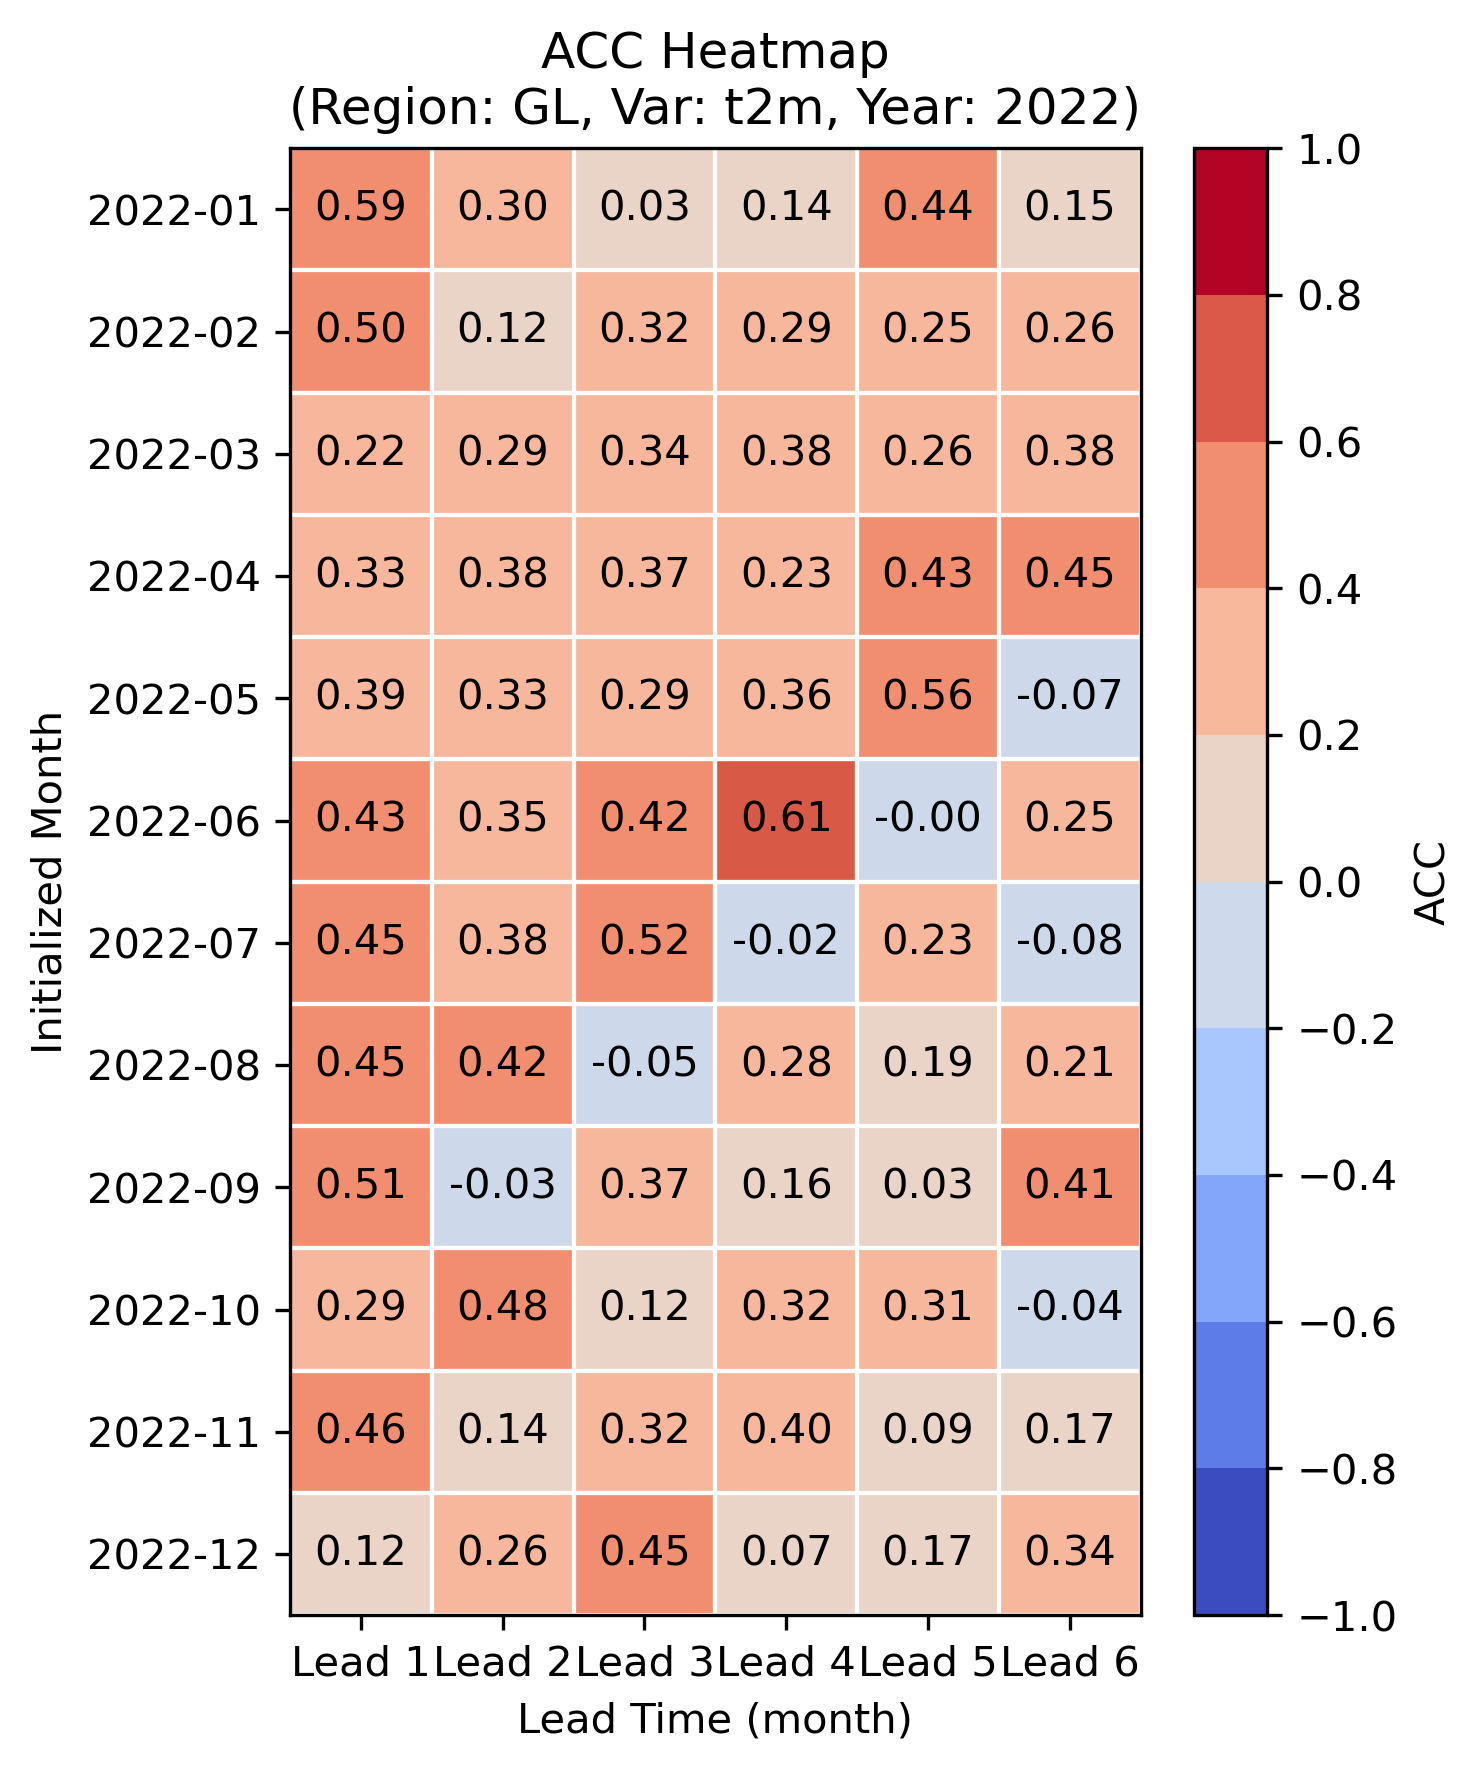
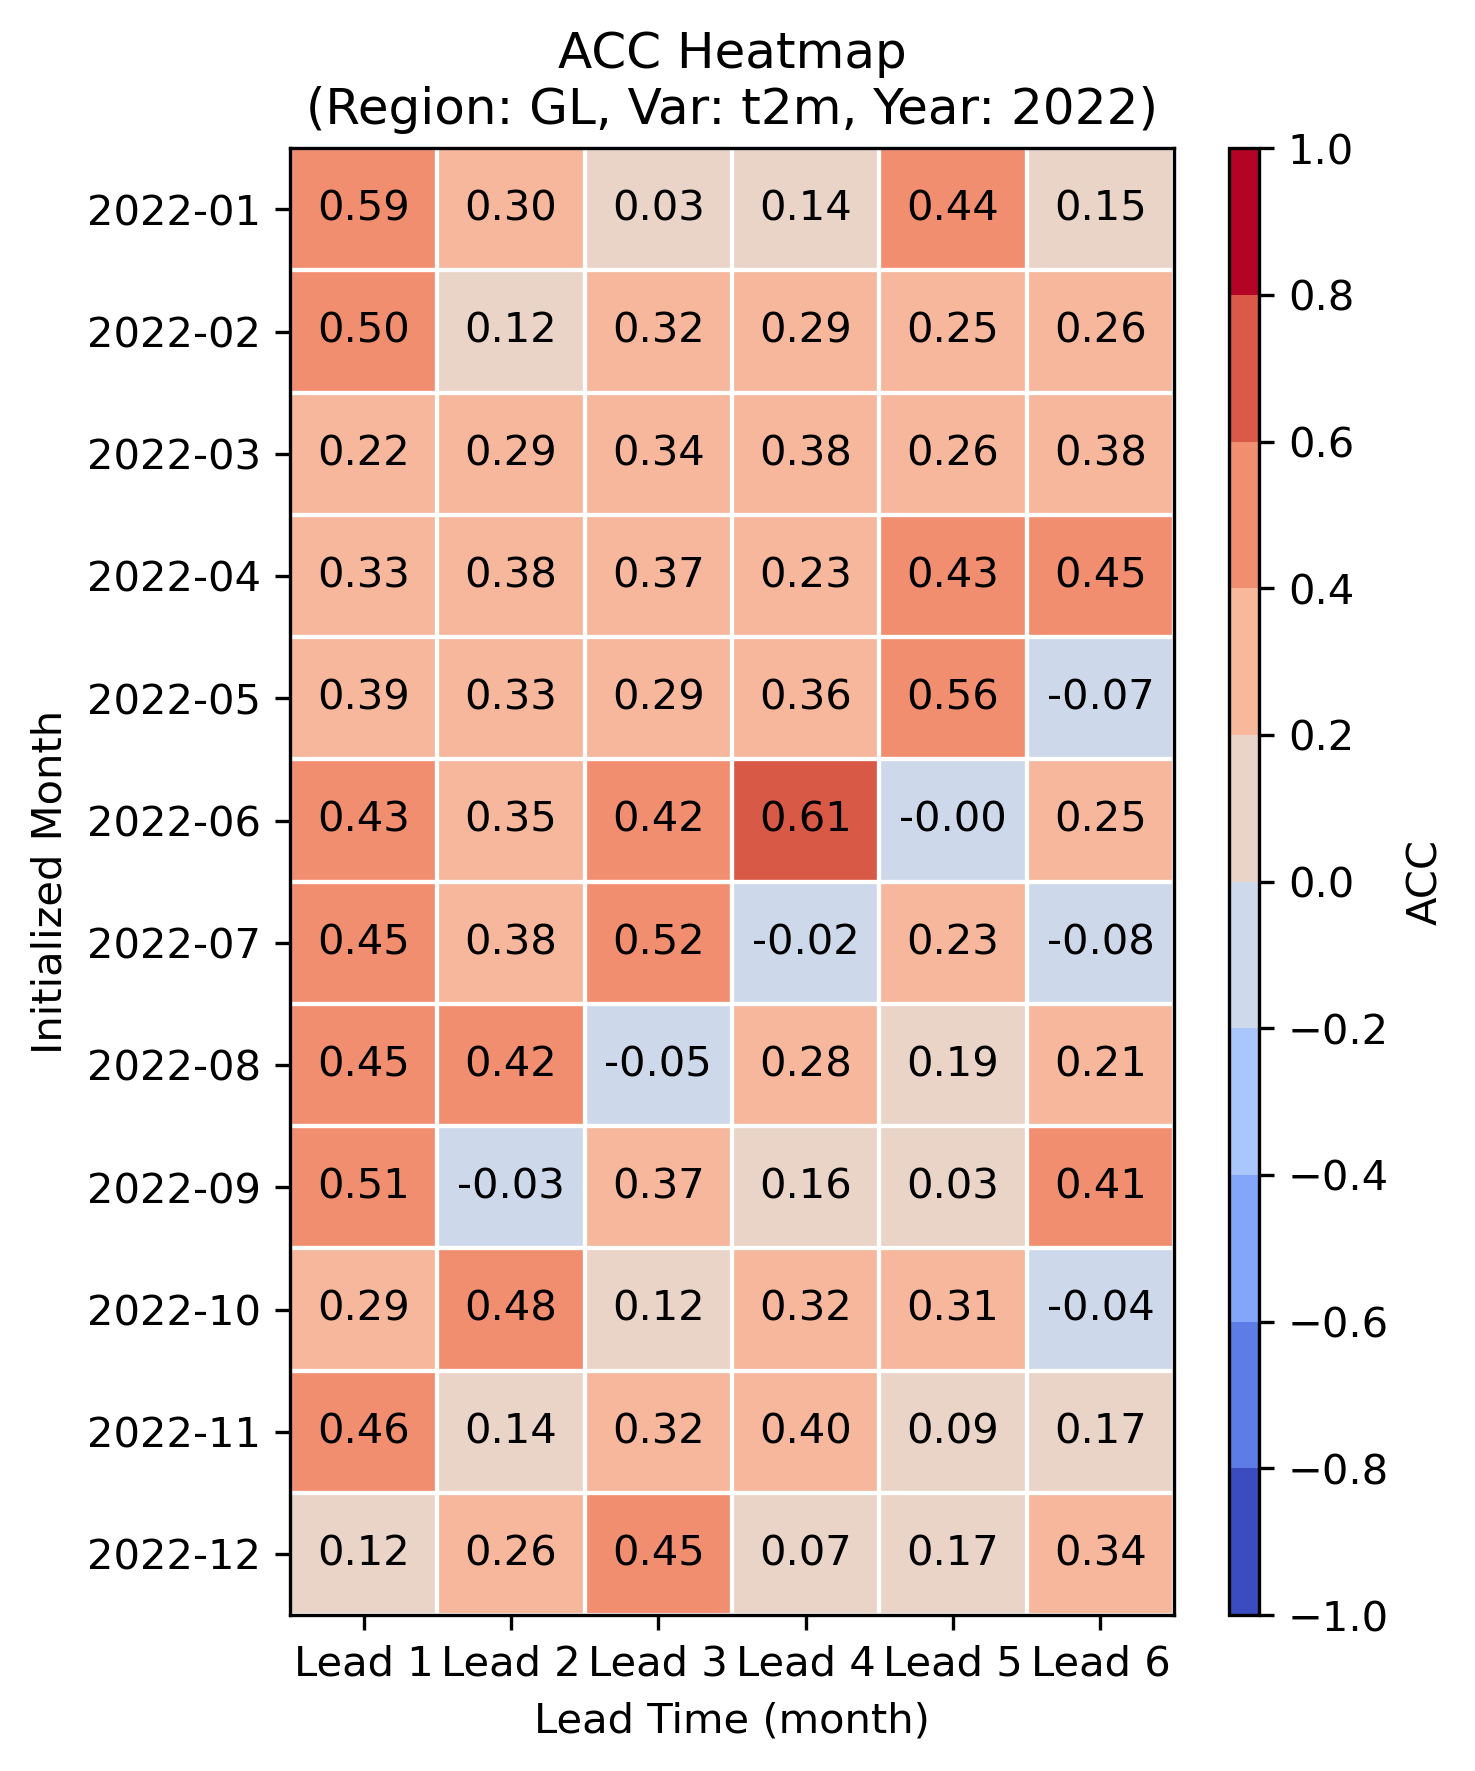
modified Det Heatmap

diff --git a/fcstverif/src/plotting/plotDetermSkillScore.py b/fcstverif/src/plotting/plotDetermSkillScore.py
@@ -68,16 +68,29 @@ def plot_skill_initialized_month(var, region_name, data_dir, fig_dir, score):
         logger.info(f"[INFO] Saved: {save_fname}")
         ds.close()
 
+def plot_skill_heatmap_initialized_month(var, target_year, region_name, data_dir, fig_dir, score1='acc', score2='rmse'):
+    import matplotlib.patches as patches
+    import matplotlib.colors as mcolors
 
-def plot_skill_heatmap_initialized_month(var, target_year, region_name, data_dir, fig_dir, score):
-    # 데이터 준비
+    # 설정
     months = range(1, 13)
     leads = range(1, 7)
-    
-    heatmap_data = np.full((len(months), len(leads)), np.nan)
-
     y_labels = [f"{target_year}-{m:02d}" for m in months]
+    x_labels = list(leads)
 
+    # 색상 및 colormap 설정
+    cmap1 = plt.get_cmap('bwr', 10)    # 💡 ACC
+    cmap2 = plt.get_cmap('Greys', 10)  # 💡 RMSE
+    bounds1 = np.linspace(-1, 1, 11)     # ACC
+    bounds2 = np.linspace(0, 4, 11)    # RMSE (적절히 조정 필요)
+    norm1 = mcolors.BoundaryNorm(bounds1, cmap1.N)
+    norm2 = mcolors.BoundaryNorm(bounds2, cmap2.N)
+
+    # 빈 grid
+    grid1 = np.full((len(y_labels), len(x_labels)), np.nan)
+    grid2 = np.full((len(y_labels), len(x_labels)), np.nan)
+
+    # 데이터 로드
     for i, month in enumerate(months):
         yyyymm = f"{target_year}{month:02d}"
         file_path = os.path.join(data_dir, f"ensScore_det_{var}_{yyyymm}.nc")
@@ -90,56 +103,148 @@ def plot_skill_heatmap_initialized_month(var, target_year, region_name, data_dir
 
         for j, lead in enumerate(leads):
             try:
-                time_idx = ds['lead'].values.tolist().index(lead)
-                heatmap_data[i, j] = ds[f"{score}_mean"].isel(time=time_idx).item()
+                time_idx = list(ds['lead'].values).index(lead)
+                grid1[i, j] = ds[f"{score1}_mean"].isel(time=time_idx).item()
+                grid2[i, j] = ds[f"{score2}_mean"].isel(time=time_idx).item()
             except Exception:
                 logger.info(f"[WARN] {yyyymm} Lead={lead} 없음")
                 continue
 
-    # colormap 설정(discrete levels)
-    bounds = np.arange(-1,1.01, 0.2)
-    cmap = plt.get_cmap('coolwarm', len(bounds)-1)
-    norm = mcolors.BoundaryNorm(bounds, cmap.N)
+    # 그림 생성
+    fig, ax = plt.subplots(figsize=(5, len(y_labels) * 0.5))
 
-    # 히트맵 그리기
-    plt.figure(figsize=(5, len(y_labels)*0.5))
-    im = plt.imshow(heatmap_data, cmap=cmap, norm=norm, aspect='auto')
+    for i in range(len(y_labels)):
+        for j in range(len(x_labels)):
+            x = j
+            y = i
+            val1 = grid1[i, j]
+            val2 = grid2[i, j]
 
-    # grid 설정 (white borders)
-    ax = plt.gca()
-    for i in range(len(months)):
-        for j in range(len(leads)):
-            rect = patches.Rectangle((j-0.5, i-0.5), 1, 1, linewidth=1,
-                                     edgecolor='white', facecolor='none')
-            ax.add_patch(rect)
+            if not np.isnan(val1):
+                ax.add_patch(patches.Polygon(
+                    [[x, y], [x+1, y], [x, y+1]],
+                    facecolor=cmap1(norm1(val1)), edgecolor='white', lw=2
+                ))
+            if not np.isnan(val2):
+                ax.add_patch(patches.Polygon(
+                    [[x+1, y+1], [x+1, y], [x, y+1]],
+                    facecolor=cmap2(norm2(val2)), edgecolor='white', lw=2
+                ))
 
-    # annotation
-    for i in range(len(months)):
-        for j in range(len(leads)):
-            val = heatmap_data[i, j]
-            if not np.isnan(val):
-                ax.text(j, i, f"{val:.2f}", ha='center', va='center', color='black')
+            if not np.isnan(val1) and not np.isnan(val2):
+                color1 = 'white' if val1 >= 0.6 else 'black'
+                color2 = 'white' if val2 >= 2 else 'black'
+                ax.text(x + 0.3, y + 0.25, f'{val1:.2f}', ha='center', va='center', fontsize=7, color=color1)
+                ax.text(x + 0.7, y + 0.75, f'{val2:.2f}', ha='center', va='center', fontsize=7, color=color2)
 
     # 축 설정
-    ax.set_xticks(np.arange(len(leads)))
-    ax.set_xticklabels([f"Lead {l}" for l in leads])
-    ax.set_yticks(np.arange(len(months)))
+    ax.set_xticks(np.arange(len(x_labels)) + 0.5)
+    ax.set_xticklabels([f'Lead {l}' for l in x_labels])
+    ax.set_yticks(np.arange(len(y_labels)) + 0.5)
     ax.set_yticklabels(y_labels)
+    ax.set_xlim(0, len(x_labels))
+    ax.set_ylim(0, len(y_labels))
+    ax.invert_yaxis()
+    ax.set_xlabel("Lead Time")
+    ax.set_ylabel("Initialized Month")
+    ax.set_title(f"{score1.upper()} / {score2.upper()} Heatmap\n(Region: {region_name}, Var: {var}, Year: {target_year})")
 
-    ax.set_xlabel('Lead Time (month)')
-    ax.set_ylabel('Initialized Month')
-    ax.set_title(f'{score.upper()} Heatmap\n(Region: {region_name}, Var: {var}, Year: {target_year})')
+    # colorbar
+    fig.subplots_adjust(right=0.88)
+    cax1 = fig.add_axes([0.90, 0.55, 0.015, 0.3])
+    sm1 = plt.cm.ScalarMappable(cmap=cmap1, norm=norm1)
+    sm1.set_array([])
+    cbar1 = plt.colorbar(sm1, cax=cax1, ticks=bounds1)
+    cbar1.set_label(score1.upper())
 
-    # colorbar 설정
-    cbar = plt.colorbar(im, ticks=bounds, spacing='proportional')
-    cbar.set_label(score.upper())
+    cax2 = fig.add_axes([0.90, 0.15, 0.015, 0.3])
+    sm2 = plt.cm.ScalarMappable(cmap=cmap2, norm=norm2)
+    sm2.set_array([])
+    cbar2 = plt.colorbar(sm2, cax=cax2, ticks=bounds2)
+    cbar2.set_label(score2.upper())
 
-    plt.tight_layout()
-    save_fname = os.path.join(fig_dir, f"{score}_heatmap_init_{var}_{region_name}_{target_year}.png")
-    #plt.show()
-    plt.savefig(save_fname, dpi=300, bbox_inches='tight', facecolor='w')
-    plt.close()
-    logger.info(f"[INFO] Saved Heatmap: {save_fname}")
+    # 저장
+    save_fname = os.path.join(fig_dir, f"det_heatmap_init_{var}_{region_name}_{target_year}.png")
+    fig.savefig(save_fname, dpi=300, bbox_inches='tight')
+    logger.info(f"[INFO] Saved Dual-Score Heatmap: {save_fname}")
+
+# def plot_skill_heatmap_initialized_month(var, target_year, region_name, data_dir, fig_dir, score):
+#     # 데이터 준비
+#     months = range(1, 13)
+#     leads = range(1, 7)
+    
+#     heatmap_data = np.full((len(months), len(leads)), np.nan)
+
+#     y_labels = [f"{target_year}-{m:02d}" for m in months]
+
+#     for i, month in enumerate(months):
+#         yyyymm = f"{target_year}{month:02d}"
+#         file_path = os.path.join(data_dir, f"ensScore_det_{var}_{yyyymm}.nc")
+
+#         if not os.path.isfile(file_path):
+#             logger.info(f"[WARN] {file_path} 없음.")
+#             continue
+
+#         ds = xr.open_dataset(file_path)
+
+#         for j, lead in enumerate(leads):
+#             try:
+#                 time_idx = ds['lead'].values.tolist().index(lead)
+#                 heatmap_data[i, j] = ds[f"{score}_mean"].isel(time=time_idx).item()
+#             except Exception:
+#                 logger.info(f"[WARN] {yyyymm} Lead={lead} 없음")
+#                 continue
+
+#     # colormap 설정(discrete levels)
+#     bounds = np.arange(-1,1.01, 0.2)
+#     cmap = plt.get_cmap('coolwarm', len(bounds)-1)
+#     norm = mcolors.BoundaryNorm(bounds, cmap.N)
+
+#     # 히트맵 그리기
+#     fig, ax = plt.subplots(figsize=(5, 6)) #5, len(y_labels)*0.5))
+#     im = ax.imshow(heatmap_data, cmap=cmap, norm=norm, aspect='auto')
+
+#     # grid 설정 (white borders)
+#     ax = plt.gca()
+#     for i in range(len(months)):
+#         for j in range(len(leads)):
+#             rect = patches.Rectangle((j-0.5, i-0.5), 1, 1, linewidth=1,
+#                                      edgecolor='white', facecolor='none')
+#             ax.add_patch(rect)
+
+#     # annotation
+#     for i in range(len(months)):
+#         for j in range(len(leads)):
+#             val = heatmap_data[i, j]
+#             if not np.isnan(val):
+#                 ax.text(j, i, f"{val:.2f}", ha='center', va='center', color='black')
+
+#     # 축 설정
+#     ax.set_xticks(np.arange(len(leads)))
+#     ax.set_xticklabels([f"Lead {l}" for l in leads])
+#     ax.set_yticks(np.arange(len(months)))
+#     ax.set_yticklabels(y_labels)
+
+#     ax.set_xlabel('Lead Time (month)')
+#     ax.set_ylabel('Initialized Month')
+#     ax.set_title(f'{score.upper()} Heatmap\n(Region: {region_name}, Var: {var}, Year: {target_year})')
+
+#     # colorbar 설정
+#     cbar = plt.colorbar(im, ticks=bounds, spacing='proportional', aspect=50)
+#     cbar.set_label(score.upper())
+#     fig.subplots_adjust(right=0.88)
+#         cax1 = fig.add_axes([0.90, 0.55, 0.015, 0.3])
+#         sm1 = plt.cm.ScalarMappable(cmap=cmap1, norm=norm1)
+#         sm1.set_array([])
+#         cbar1 = plt.colorbar(sm1, cax=cax1, ticks=bounds1)
+#         cbar1.set_label('ACC')
+
+#     plt.tight_layout()
+#     save_fname = os.path.join(fig_dir, f"{score}_heatmap_init_{var}_{region_name}_{target_year}.png")
+#     #plt.show()
+#     plt.savefig(save_fname, dpi=300, bbox_inches='tight', facecolor='w')
+#     plt.close()
+#     logger.info(f"[INFO] Saved Heatmap: {save_fname}")
 
 
 def plot_skill_target_month(var, target_year, region_name, score, data_dir, fig_dir=None):

diff --git a/dashboard/app.py b/dashboard/app.py
@@ -48,7 +48,7 @@ PLOT_FILENAME_MAP = {
     "Bias_byTarget": ["{var}_pattern_compare_{region}_{yyyymm}.png"],
     "RPSS_byInit":   ["rpss_map_{var}_{region}_{yyyymm}.png"],
     "ROC_byInit":    ["roc_curve_by_lead_{var}_{region}_{yyyymm}.png"],
-    #"init_heatmap":   [f"acc_heatmap_init_{{var}}_{{region}}_{{year_only}}.png"],
+    #"init_heatmap":   [f"det_heatmap_init_{{var}}_{{region}}_{{year_only}}.png"],
     #"cate_heatmap":   ["det_ter_score_{var}_{region}_{year}.png"]
 }
 
@@ -108,8 +108,8 @@ if tab_selection == "📊 Overview":
     cols = st.columns(2)
     with cols[0]:
         st.image(get_fig_url(model, region, var,
-            f"acc_heatmap_init_{var}_{region}_{selected_year}.png"),
-            caption=f"ACC Init Heatmap ({selected_year})", use_container_width=True)
+            f"det_heatmap_init_{var}_{region}_{selected_year}.png"),
+            caption=f"Deterministic Skill Score ({selected_year})", use_container_width=True)
     with cols[1]:
         st.image(get_fig_url(model, region, var,
             f"det_ter_score_{var}_{region}_{selected_year}.png"),

diff --git a/fcstverif/run_plotting.py b/fcstverif/run_plotting.py
@@ -36,7 +36,7 @@ def define_plot_tasks(var, region_name, data_dir, fig_dir, yyyymm_list):
         "init_heatmap": lambda: [
             plot_skill_heatmap_initialized_month(
                 var=var, target_year=y, region_name=region_name,
-                data_dir=data_dir, fig_dir=fig_dir, score='acc'
+                data_dir=data_dir, fig_dir=fig_dir, score1='acc', score2='rmse'
             ) for y in fyears
         ],
         "target_month": lambda: [

diff --git a/fcstverif/src/plotting/plotCateHeatmap.py b/fcstverif/src/plotting/plotCateHeatmap.py
@@ -56,7 +56,7 @@ def plot_det_cate_heatmap(var, years, region_name, data_dir, fig_dir, score1='ac
                     grid1[i, j] = match[score1].values[0]
                     grid2[i, j] = match[score2].values[0]
 
-        fig, ax = plt.subplots(figsize=(5, len(y_labels)*0.5))
+        fig, ax = plt.subplots(figsize=(5, 6)) #5, len(y_labels)*0.5))
 
         for i in range(len(y_labels)):
             for j in range(len(x_labels)):

diff --git a/fcstverif/config.py b/fcstverif/config.py
@@ -36,7 +36,7 @@ enabled_plots = [
     #"target_line",
     "cate_heatmap", # only for t2m, prcp
     #"rpss_map",
-    "roc_curve"
+    #"roc_curve"
 ]
 #================================================
 
